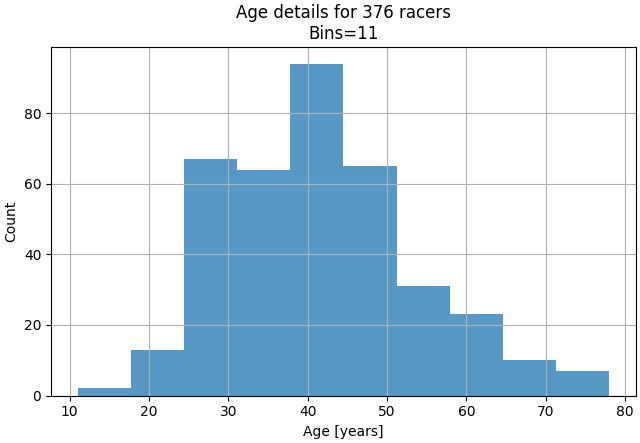
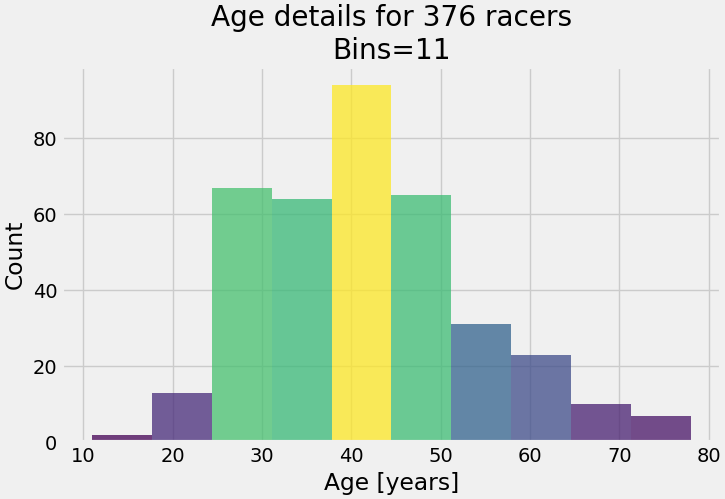
Enrich and beautify plots

diff --git a/docs/EmpireStateRunUp/empirestaterunup/apps.py b/docs/EmpireStateRunUp/empirestaterunup/apps.py
@@ -6,6 +6,7 @@ import re
 from pathlib import Path
 from typing import Type
 
+from matplotlib import colors
 from pandas import DataFrame
 from rich.text import Text
 from textual import on
@@ -263,7 +264,12 @@ class Plotter:
         elif gtype == 'hist':
             series = self.df[RaceFields.age.value]
             fig, ax = plt.subplots(layout='constrained')
-            n, bins, patches = ax.hist(series, density=False, facecolor='C0', alpha=0.75)
+            n, bins, patches = ax.hist(series, density=False, alpha=0.75)
+            fracs = n / n.max()
+            norm = colors.Normalize(fracs.min(), fracs.max())
+            for frac, patch in zip(fracs, patches):
+                color = plt.cm.viridis(norm(frac))
+                patch.set_facecolor(color)
             ax.set_xlabel('Age [years]')
             ax.set_ylabel('Count')
             ax.set_title(f'Age details for {series.shape[0]} racers\nBins={len(bins)}')
